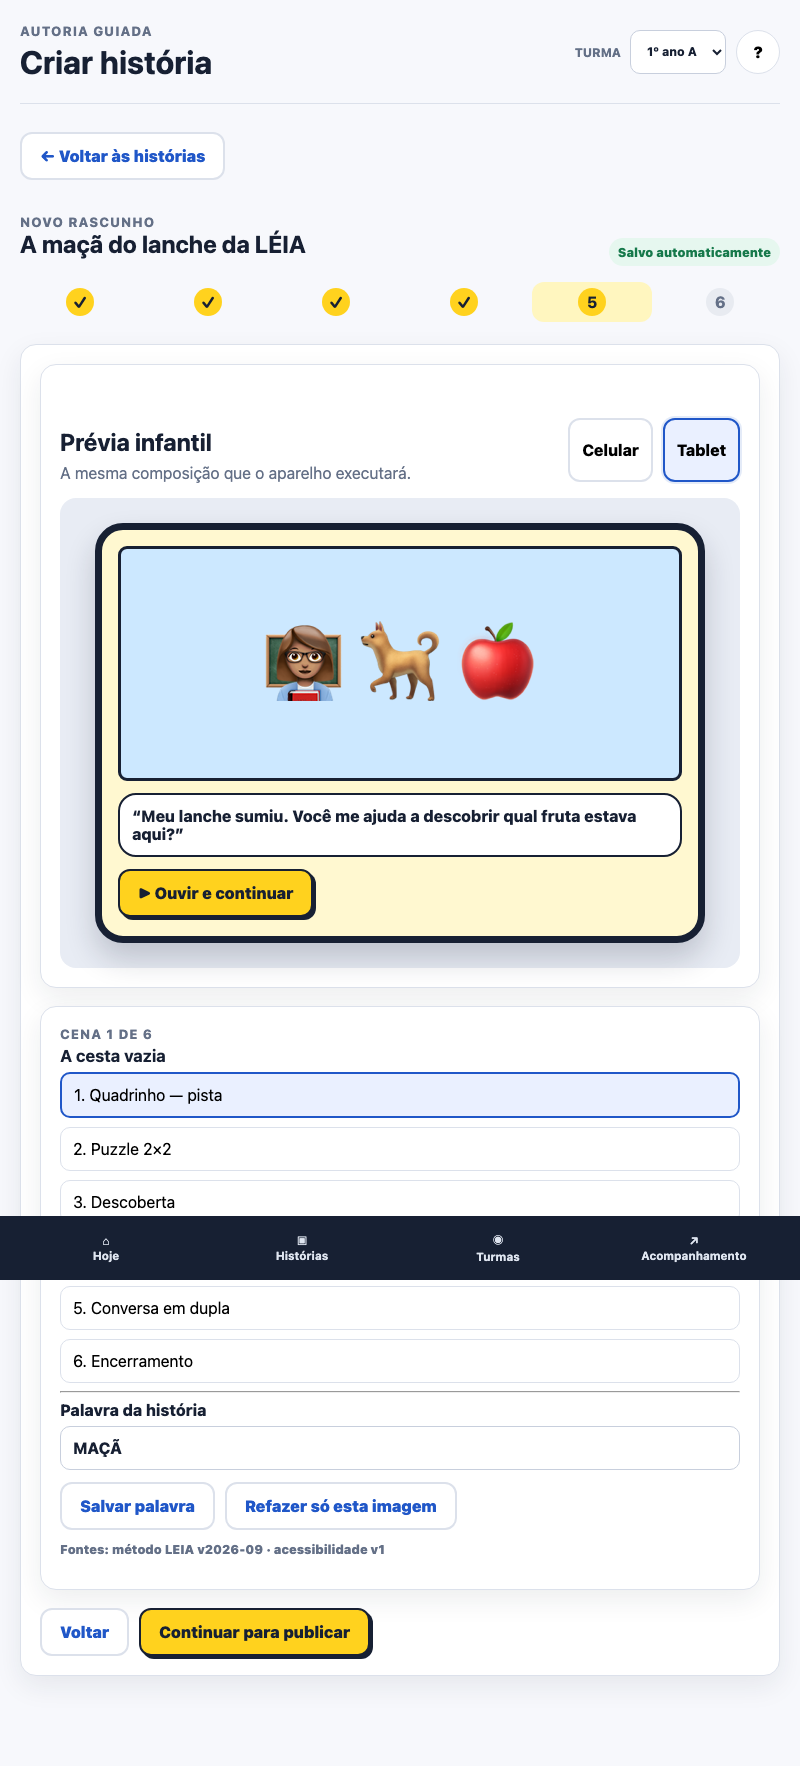
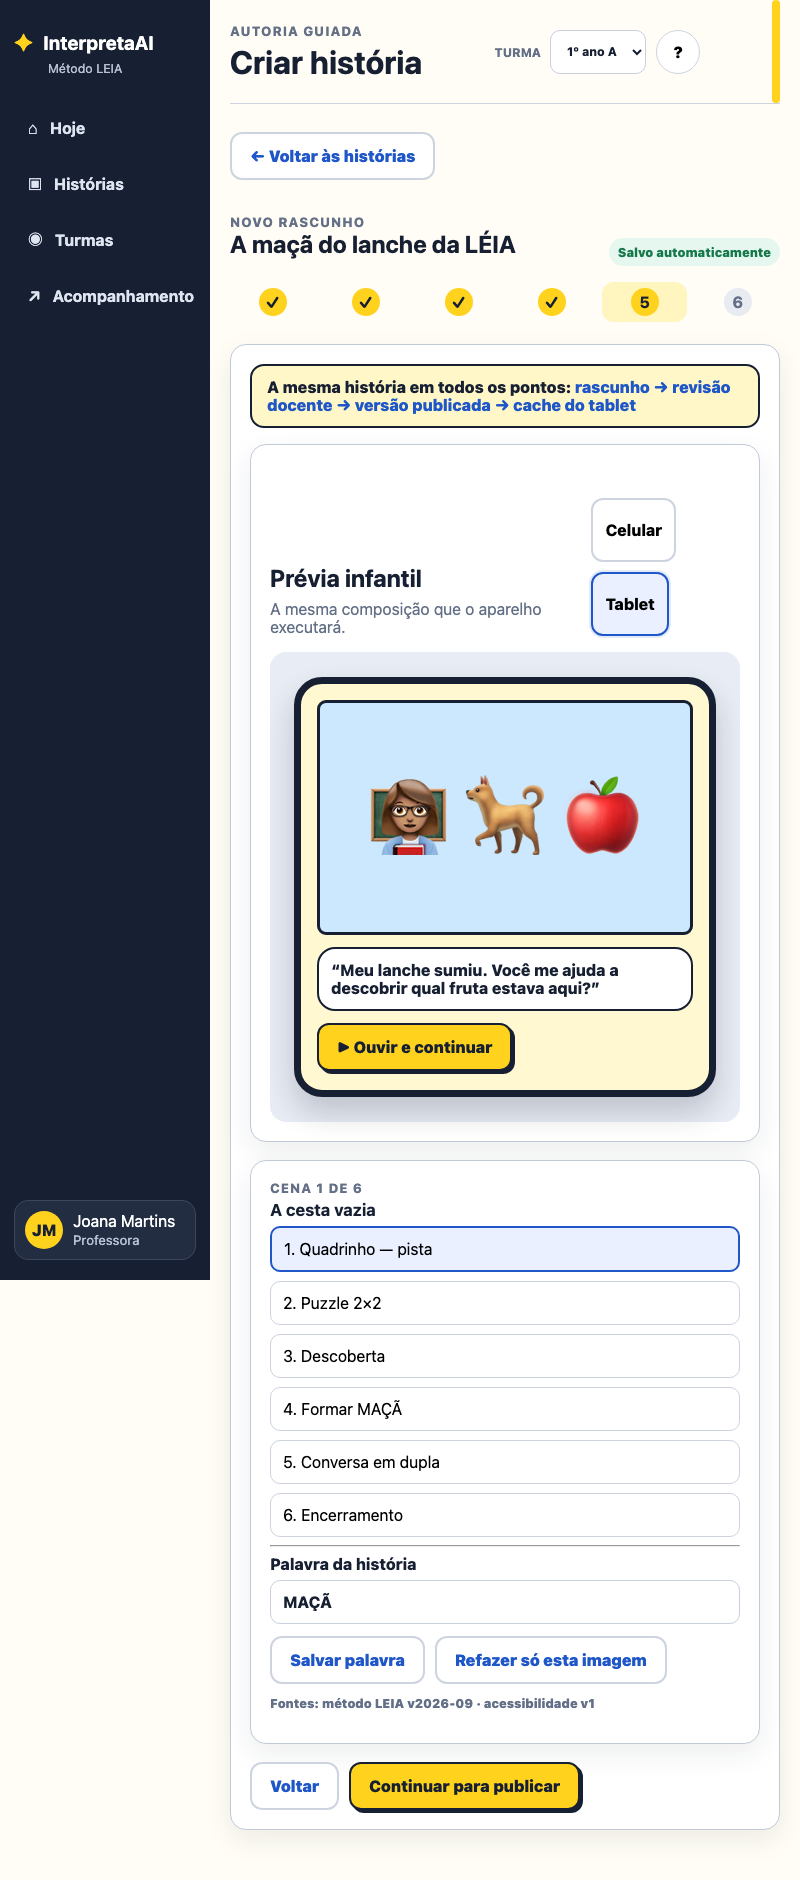
feat(studio): connect teacher journey to delivery states

diff --git a/docs/v2/prototype/styles.css b/docs/v2/prototype/styles.css
@@ -1,8 +1,8 @@
 :root {
   --ink: #172033;
   --muted: #647087;
-  --paper: #f7f8fc;
-  --white: #fff;
+  --paper: #fffdf5;
+  --white: #fffefa;
   --yellow: #ffd21e;
   --blue: #2057c8;
   --blue-soft: #eaf0ff;
@@ -11,7 +11,7 @@
   --orange: #b95113;
   --orange-soft: #fff0e5;
   --red: #b42318;
-  --line: #dce1eb;
+  --line: #cdd4df;
   --shadow: 0 10px 28px rgba(23, 32, 51, .08);
   font-family: Inter, ui-sans-serif, system-ui, -apple-system, BlinkMacSystemFont, "Segoe UI", sans-serif;
   color: var(--ink);
@@ -49,7 +49,7 @@ select, input, textarea { border: 1px solid #c8cfdd; border-radius: 10px; backgr
 .classroom-select select { margin-left: 6px; }
 .icon-button { width: 44px; height: 44px; border-radius: 50%; border: 1px solid var(--line); background: white; font-weight: 900; }
 #view { padding-top: 28px; }
-.hero { border: 2px solid var(--ink); border-radius: 20px; box-shadow: 6px 6px 0 var(--ink); background: linear-gradient(135deg, #fff9cf, var(--yellow)); padding: clamp(22px, 5vw, 40px); display: grid; grid-template-columns: 1fr auto; gap: 24px; align-items: center; }
+.hero { border: 2px solid var(--ink); border-radius: 20px; box-shadow: 6px 6px 0 var(--ink); background: #ffe36a; padding: clamp(22px, 5vw, 40px); display: grid; grid-template-columns: 1fr auto; gap: 24px; align-items: center; }
 .hero p { max-width: 62ch; }
 .hero-figure { width: 130px; height: 130px; border: 3px solid var(--ink); border-radius: 50%; display: grid; place-items: center; background: white; font-size: 3.5rem; box-shadow: 6px 6px 0 rgba(23,32,51,.25); }
 .section-head { display: flex; justify-content: space-between; align-items: end; gap: 18px; margin: 34px 0 16px; }
@@ -113,11 +113,11 @@ select, input, textarea { border: 1px solid #c8cfdd; border-radius: 10px; backgr
 .toast { position: fixed; right: 24px; bottom: 24px; background: var(--ink); color: white; border-radius: 12px; padding: 14px 18px; opacity: 0; transform: translateY(20px); pointer-events: none; transition: .2s; z-index: 30; }
 .toast.show { opacity: 1; transform: translateY(0); }
 
-@media (max-width: 900px) {
+@media (max-width: 700px) {
   .app-shell { grid-template-columns: 1fr; }
   .sidebar { display: none; }
-  main { padding: 0 20px 90px; }
-  .mobile-nav { display: grid; grid-template-columns: repeat(4, 1fr); position: fixed; z-index: 15; left: 0; right: 0; bottom: 0; background: var(--ink); padding: 8px; }
+  main { padding: 0 20px 28px; }
+  .mobile-nav { display: grid; grid-template-columns: repeat(4, 1fr); position: static; z-index: 15; left: 0; right: 0; bottom: 0; background: var(--ink); padding: 8px; }
   .mobile-nav .nav-button { justify-content: center; min-width: 0; padding: 5px; font-size: .72rem; flex-direction: column; gap: 2px; }
   .mobile-nav .nav-button[aria-current="page"] { box-shadow: inset 0 3px var(--yellow); }
   .wizard { grid-template-columns: 1fr; }
@@ -125,6 +125,17 @@ select, input, textarea { border: 1px solid #c8cfdd; border-radius: 10px; backgr
   .step { justify-content: center; padding: 6px; }
   .step b { display: none; }
   .review-layout { grid-template-columns: 1fr; }
+}
+
+@media (min-width: 701px) and (max-width: 1000px) {
+  .app-shell { grid-template-columns: 210px minmax(0, 1fr); }
+  .sidebar { padding-inline: 14px; }
+  main { padding-inline: 20px; }
+  .wizard, .review-layout { grid-template-columns: 1fr; }
+  .steps { grid-template-columns: repeat(6, 1fr); }
+  .step { justify-content: center; padding: 6px; }
+  .step b { display: none; }
+  .grid { grid-template-columns: repeat(2, minmax(0, 1fr)); }
 }
 
 @media (max-width: 640px) {
@@ -144,4 +155,51 @@ select, input, textarea { border: 1px solid #c8cfdd; border-radius: 10px; backgr
 
 @media (prefers-reduced-motion: reduce) {
   *, *::before, *::after { scroll-behavior: auto !important; transition: none !important; }
+}
+
+
+/* Shared story language: calmer for adults, continuous with the Android comic. */
+.topbar::after {
+  content: "";
+  align-self: stretch;
+  width: 8px;
+  border-radius: 99px;
+  background: var(--yellow);
+}
+.card { border-color: #c2cad8; }
+.lesson-journey {
+  display: grid;
+  grid-template-columns: repeat(4, minmax(0, 1fr));
+  gap: 10px;
+  margin: 18px 0 4px;
+}
+.journey-step {
+  min-height: 76px;
+  border: 2px solid var(--ink);
+  border-radius: 14px;
+  background: var(--white);
+  padding: 12px;
+  box-shadow: 3px 3px 0 var(--ink);
+}
+.journey-step small {
+  display: block;
+  color: var(--muted);
+  margin-bottom: 5px;
+  font-weight: 800;
+  text-transform: uppercase;
+}
+.journey-step.active { background: var(--yellow); }
+.journey-step.ready { border-color: var(--green); box-shadow: 3px 3px 0 var(--green); }
+.story-ribbon {
+  border: 2px solid var(--ink);
+  border-radius: 14px;
+  background: #fff7c7;
+  padding: 12px 15px;
+  margin-bottom: 16px;
+  font-weight: 850;
+}
+.story-ribbon span { color: var(--blue); }
+@media (max-width: 700px) {
+  .lesson-journey { grid-template-columns: repeat(2, minmax(0, 1fr)); }
+  .journey-step { min-height: 66px; }
 }

diff --git a/docs/v2/prototype/app.js b/docs/v2/prototype/app.js
@@ -51,6 +51,12 @@ function todayView() {
       </div>
       <div class="hero-figure" aria-label="Maçã da história">🍎</div>
     </section>
+    <section class="lesson-journey" aria-label="Trilha da história">
+      <article class="journey-step ready"><small>1 · História</small><strong>Revisada pela professora</strong></article>
+      <article class="journey-step ready"><small>2 · Envio</small><strong>Versão 1 publicada</strong></article>
+      <article class="journey-step active"><small>3 · Aparelhos</small><strong>18 de 24 prontos</strong></article>
+      <article class="journey-step"><small>4 · Aula</small><strong>Próxima ação: iniciar</strong></article>
+    </section>
     <div class="section-head"><div><h2>Preparação dos aparelhos</h2><p>Estado confirmado pelos próprios dispositivos.</p></div>${button("Ver detalhes", "go-classes", "quiet")}</div>
     <section class="grid">
       <article class="card"><p>Prontos</p><div class="metric">18</div>${status("Pode iniciar", "ready")}</article>
@@ -121,7 +127,7 @@ function wizardView() {
 }
 
 function reviewView(inWizard = false) {
-  return `<div class="review-layout">
+  return `<div class="story-ribbon">A mesma história em todos os pontos: <span>rascunho → revisão docente → versão publicada → cache do tablet</span></div><div class="review-layout">
     <section class="card">
       <div class="section-head"><div><h2>Prévia infantil</h2><p>A mesma composição que o aparelho executará.</p></div><div class="inline-actions"><button class="choice ${state.preview === "phone" ? "selected" : ""}" type="button" data-preview="phone">Celular</button><button class="choice ${state.preview === "tablet" ? "selected" : ""}" type="button" data-preview="tablet">Tablet</button></div></div>
       <div class="device-preview"><div class="device ${state.preview === "tablet" ? "tablet" : ""}"><div class="comic-frame">👩🏽🏫 🐕 🍎</div><div class="speech">“Meu lanche sumiu. Você me ajuda a descobrir qual fruta estava aqui?”</div><button class="button primary" type="button">▶ Ouvir e continuar</button></div></div>

diff --git a/tools/audit-v2-studio.py b/tools/audit-v2-studio.py
@@ -33,7 +33,7 @@ def assert_no_overflow(page: Page, context: str) -> None:
 
 
 def navigate(page: Page, viewport_width: int, target: str) -> None:
-    nav = "#mobile-nav" if viewport_width <= 900 else "#desktop-nav"
+    nav = "#mobile-nav" if viewport_width <= 700 else "#desktop-nav"
     page.locator(f'{nav} button[data-page="{target}"]').click()
 
 

diff --git a/docs/v2/DATA_INTEGRATION_FLOW.md b/docs/v2/DATA_INTEGRATION_FLOW.md
@@ -1,0 +1,48 @@
+# Fluxo de integração de dados do InterpretaAI
+
+## Estado implementado
+
+### 1. Identidade adulta
+1. O estúdio autentica a pessoa pelo provedor OIDC.
+2. GET /api/v2/identity/me resolve usuário, escola e papel a partir do banco.
+3. As rotas adultas recebem X-School-Id; autorização e vínculo com a escola permanecem no servidor.
+
+### 2. Preparação e revisão
+1. POST /api/v2/authoring/jobs cria um trabalho idempotente.
+2. GET /api/v2/authoring/jobs/{jobId} acompanha o processamento por revisão e ETag.
+3. O worker materializa um LearningStoryPack validado como rascunho.
+4. GET /api/v2/stories/{storyId}/versions/{version}/review entrega o pacote e os recursos privados para revisão.
+5. A aprovação exige revisão esperada, hash exato do pacote e todos os IDs de recursos confirmados.
+6. A aprovação cria os bytes finais e um novo hash; POST .../publish publica essa versão imutável.
+
+### 3. Entrega ao Android
+1. POST /api/v2/assignments associa uma versão publicada à turma ou aos aparelhos.
+2. Cada tablet usa sua própria credencial revogável.
+3. GET /api/v2/devices/{deviceId}/manifest lista versões e hashes disponíveis.
+4. O APK baixa o pacote e os recursos por rotas autenticadas, confere tamanho, ETag e SHA-256 e só então marca a história como pronta.
+5. O cache local mantém a aula disponível durante perda de conexão.
+
+### 4. Participação
+O piloto atual envia lotes neutros para POST /api/v1/pilot/learning-events:batch. Os eventos descrevem etapa, modalidade, duração e pedido de apoio. Não transportam áudio, resposta completa, nota, ranking ou diagnóstico.
+
+## Estado que a interface deve mostrar
+
+| Interface | Estado de origem | Texto para a professora |
+|---|---|---|
+| Autoria | trabalho assíncrono | Preparando proposta |
+| Revisão | rascunho + hash + recursos | Revisar versão |
+| Publicação | versão publicada | História publicada |
+| Manifesto | atribuição visível ao tablet | Enviada |
+| Cache | pacote e recursos verificados | Pronta no aparelho |
+| Execução | eventos recebidos | Aula iniciada |
+| Evidência | lote aceito | Participação registrada |
+
+“Publicada”, “enviada” e “pronta” são estados diferentes. A tela deve mostrar o último estado confirmado pela fonte responsável.
+
+## Próximo corte de implementação
+
+1. Levar os eventos neutros para uma rota v2 autenticada por dispositivo e idempotente.
+2. Acrescentar storyId, storyVersion, assignmentId, deviceId, occurredAt e eventId a cada evento.
+3. Manter a fila local no Android até confirmação do lote.
+4. Criar leitura adulta agregada por turma, sempre com origem, período, tamanho da amostra e limite da interpretação.
+5. Atualizar a trilha da professora por polling com ETag primeiro; avaliar SSE somente após medir necessidade real.
